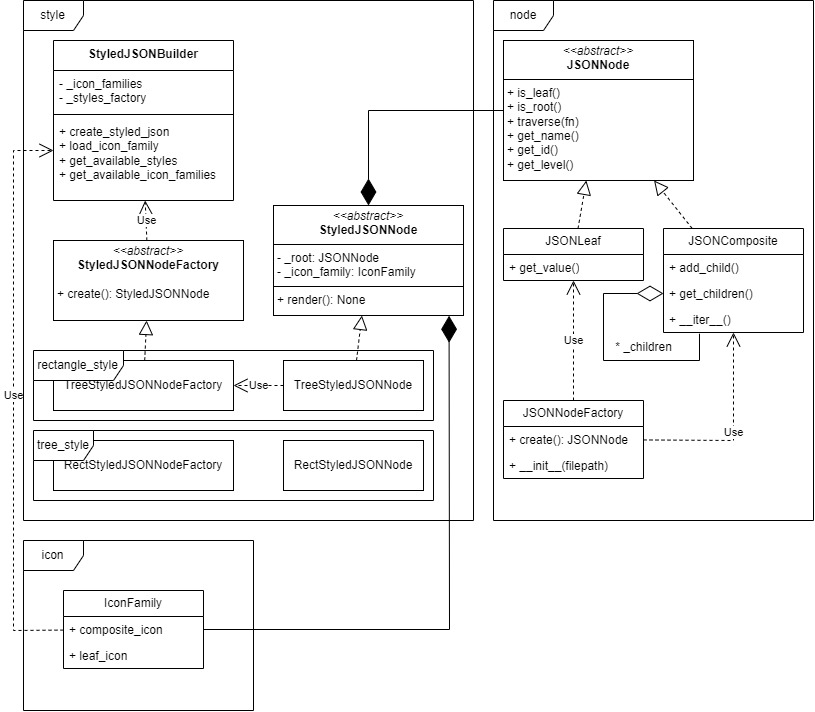
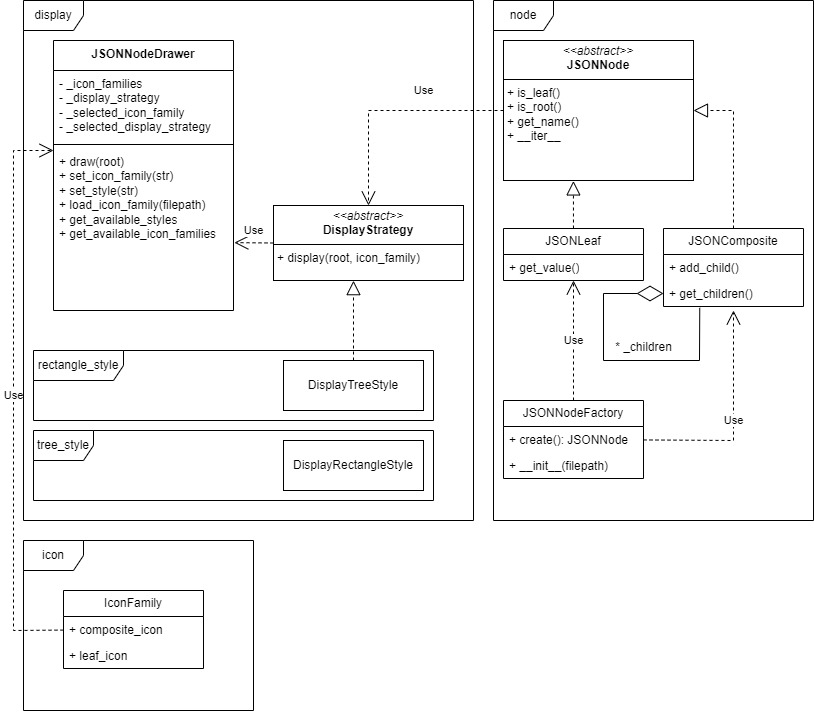
doc: 更新文档

diff --git a/docs/design.md b/docs/design.md
@@ -5,14 +5,14 @@
 模块说明：
 
 1. exception: 定义了一个异常类，用于捕获所有预期的异常
-2. main: 读取命令行参数，调用建造者获得 StyledJSON，并调用渲染
+2. main: 读取命令行参数，调用 JSONNodeFactory 工厂读取 json 文件并创建 JSONNode，然后将参数传入 JSONNodeDrawer，让其读取 IconFamily 文件，渲染出对应的风格。
 3. node: 定义了项目使用的可视化数据结构，同时包含一个读取 json 文件创建该数据结构的简单工厂
 4. icon: 存储处理 icon 相关的数据
-5. style: 存储风格渲染相关的类
-   1. style: 定义了抽象工厂接口和抽象产品接口
-   2. __init__: 定义了一个建造者 StyleJSONBuilder ，负责获取对应的工厂和 icon_family 并完成组装
-   3. tree_style: 定义了一个树形风格的实现
-   4. rectangle_style: 定义了一个矩形风格的实现
+5. display: 存储风格渲染相关的类
+   1. display: 定义了策略接口 DisplayStrategy
+   2. `__init__`: 定义了一个建造者 JSONNodeDrawer ，负责获取对应的策略和 icon_family 并完成渲染
+   3. tree_style: 定义了一个树形风格的策略
+   4. rectangle_style: 定义了一个矩形风格的策略
 
 类图：
 
@@ -20,9 +20,8 @@
 
 ## 使用的设计模式
 
-1. 工厂方法：StyledJSONNodeFactory 的 create 是工厂方法，它负责创建具体的风格对象。
-2. 抽象工厂：StyledJSONNodeFactory 是抽象工厂接口，TreeStyleFactory、RectangleStyleFactory 是具体的抽象工厂，每个抽象工厂根据不同的 icon_family 创造出不同的 StyledJSONNode 产品。
-3. 建造者：StyleJSONBuilder 是建造者接口，负责组装 StyledJSONNode 产品。
-4. 组合模式：JSONNode、JSONLeaf、JSONComposite 是组合模式的实现，分别对应 component、leaf、composite。
-5. 简单工厂：JSONNodeFactory 是简单工厂，他根据文件名读取 json 并创建 JSONNode 产品。
-6. 迭代器模式：JSONComposite 实现了迭代器接口
+1. 建造者： JSONNodeDrawer 是建造者接口。在重构前他负责生产 StyledJSONNode，但由于这个对象在之前就只有渲染功能，不如让 JSONNodeDrawer 直接调用。尽管 JSONNodeDrawer 已经不再生产对象，其模式依然与建造者类似，通过设置不同样式来决定渲染方式。
+2. 组合模式： JSONNode、JSONLeaf、JSONComposite 是组合模式的实现，分别对应 component、leaf、composite。
+3. 简单工厂： JSONNodeFactory 是简单工厂，他根据文件名读取 json 并创建 JSONNode 产品。
+4. 迭代器模式：JSONNode 定义了 `__iter__` 方法，子类通过 python 的生成器模式实现了迭代器功能，可以方便地遍历节点。
+5. 策略模式： DisplayStrategy 接口定义了渲染策略，其子类 tree_style 和 rectangle_style 实现了不同的渲染方式。
